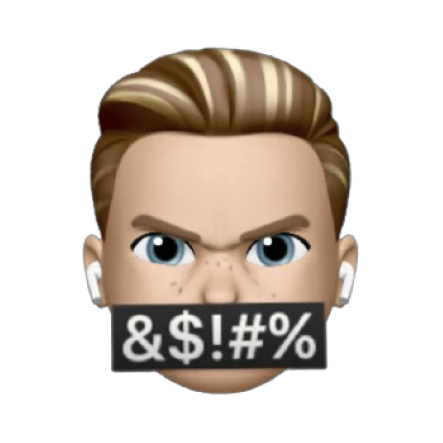
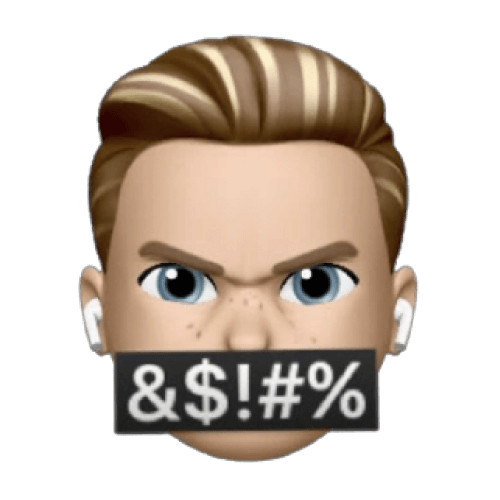
Design improvemennt

Changed region(s): [[0.1467, 0.0587, 0.851, 0.9391]]

diff --git a/components/Hero.jsx b/components/Hero.jsx
@@ -9,8 +9,9 @@ const Hero = () => {
 	const [pageAvatar, setPageAvatar] = useState(avatar)
 
 	return (
-		<section className="card flex flex-col md:flex-row items-center gap-10 md:gap-16 py-10 px-10 md:px-16 relative w-full text-center md:text-left">
-			<div className="flex-1 shake">
+		<section className="card flex flex-col lg:flex-row items-center gap-10 md:gap-16 py-10 px-10 md:px-16 relative w-full text-center md:text-left">
+			<Social />
+			<div className="flex-1 sm:w-1/2 shake">
 				<Image
 					src={pageAvatar}
 					alt="avatar"
@@ -26,15 +27,13 @@ const Hero = () => {
 			</div>
 			<div className="flex-2">
 				<div>
-					<h1 className="text-4xl md:text-5xl font-bold mb-3 font-heroTitle">
+					<h1 className="text-4xl md:text-5xl lg:text-6xl font-bold mb-5 font-title">
 						Nick Olenichev
 					</h1>
-					<h2 className="mb-3 text-2xl uppercase font-semibold text-color">
+					<h2 className="mb-3 text-2xl font-semibold text-color">
 						Web Developer
 					</h2>
 					<p className="text text-lg mx-auto text-left">{personalInfo.description}</p>
-
-					<Social />
 				</div>
 			</div>
 		</section>

diff --git a/components/Header.jsx b/components/Header.jsx
@@ -1,7 +1,17 @@
 import Head from "next/head"
 import { FaHamburger } from "react-icons/fa"
 
+const sections = ["about", "skills", "portfolio", "contacts"]
+
 const Header = ({ pageTitle }) => {
+	const links = sections.map((item, index) => {
+		return (
+			<a href={`#${item}`} className="text-hover" key={index}>
+				{item}()
+			</a>
+		)
+	})
+
 	return (
 		<>
 			<Head>
@@ -12,19 +22,8 @@ const Header = ({ pageTitle }) => {
 					<a href="#" className="select-none font-main text-xl font-semibold">
 						{"<"}Nikister {"/>"}
 					</a>
-					<nav className="gap-7 font-bold text text-xl hidden md:flex">
-						<a href="#about" className="text-hover">
-							about()
-						</a>
-						<a href="#skills" className="text-hover">
-							skills()
-						</a>
-						<a href="#portfolio" className="text-hover">
-							portfolio()
-						</a>
-						<a href="#contacts" className="text-hover">
-							contacts()
-						</a>
+					<nav className="gap-5 font-bold text text-xl hidden md:flex">
+						{links}
 					</nav>
 
 					<button className="text-3xl block md:hidden">

diff --git a/components/Social.jsx b/components/Social.jsx
@@ -11,7 +11,7 @@ const SocialLink = ({ children, link }) => {
 			href={link}
 			rel="noreferrer"
 			target="_blank"
-			className="w-10 h-10 bg-color rounded-full flex items-center justify-center hover:text-white relative text-black text-2xl"
+			className="w-9 h-9 bg-color rounded-full flex items-center justify-center hover:text-white relative text-black text-xl"
 		>
 			{children}
 		</a>
@@ -27,7 +27,7 @@ function Social({}) {
 		)
 	})
 
-	return <div className="flex gap-5 absolute top-10 right-10">{links}</div>
+	return <div className="flex gap-5 reltaive md:absolute top-5 mb-2 md:right-5">{links}</div>
 }
 
 export default Social

diff --git a/pages/_document.js b/pages/_document.js
@@ -8,17 +8,12 @@ export default function Document() {
 		<Html>
 			<Head>
 				<link
+					href="https://fonts.cdnfonts.com/css/fredoka-one"
+					rel="stylesheet"
+					crossOrigin="true"
+				/>
+				<link
 					href="https://fonts.cdnfonts.com/css/nitti"
-					rel="stylesheet"
-					crossOrigin="true"
-				/>
-				<link
-					href="https://fonts.cdnfonts.com/css/bizmo-trial"
-					rel="stylesheet"
-					crossOrigin="true"
-				/>
-				<link
-					href="https://fonts.cdnfonts.com/css/coco-gothic"
 					rel="stylesheet"
 					crossOrigin="true"
 				/>

diff --git a/components/Skills.jsx b/components/Skills.jsx
@@ -72,7 +72,7 @@ const Skills = () => {
 	return (
 		<section className="card p-5 md:p-10 w-full scroll-m" id="skills">
 			<h2 className="title">Technical Skills</h2>
-			<div className="grid gap-y-10 gap-x-14 grid-cols-1 md:grid-cols-3 bg-black rounded-3xl p-5 md:p-10">
+			<div className="grid gap-y-10 gap-x-14 grid-cols-1 sm:grid-cols-2 lg:grid-cols-3 bg-black rounded-3xl p-5 md:p-10">
 				{techicalSkills}
 			</div>
 			<div className="flex flex-col md:flex-row mt-16 gap-10">

diff --git a/components/BasicInfo.jsx b/components/BasicInfo.jsx
@@ -59,7 +59,7 @@ const BasicInfo = ({}) => {
 				<div className="flex flex-col gap-5">{basicInformation}</div>
 			</div>
 			<div className="bg-black p-5 mt-10 rounded-3xl">
-				<a href="https://t.me/nikister" rel="noreferrer" target="_blank" className="hover:opacity-70">
+				<a href="https://t.me/nikister" rel="noreferrer" target="_blank" className="hover:opacity-70 flex justify-center">
 					<Image
 						src={tgQr}
 						alt="QR"

diff --git a/styles/globals.css b/styles/globals.css
@@ -48,7 +48,7 @@ body {
 }
 
 .title {
-  @apply font-title uppercase mb-5 text-2xl font-bold;
+  @apply font-title uppercase mb-4 ml-4 text-2xl font-semibold;
 }
 
 .text {
@@ -57,10 +57,7 @@ body {
 
 
 .shake:hover {
-  /* Start the shake animation and make the animation last for 0.5 seconds */
   animation: shake 0.5s;
-
-  /* When the animation is finished, start again */
   animation-iteration-count: infinite;
 }
 

diff --git a/components/About.jsx b/components/About.jsx
@@ -13,7 +13,7 @@ const About = () => {
 	})
 
 	return (
-		<div className="flex md:gap-10 flex-col-reverse md:flex-row scroll-m" id="about">
+		<div className="flex md:gap-10 flex-col-reverse lg:flex-row scroll-m" id="about">
 			<section className="flex flex-col justify-between flex-2">
 				<div className="card p-5 md:p-10">
 					<h2 className="title">Shortly About Me</h2>

diff --git a/tailwind.config.js b/tailwind.config.js
@@ -7,7 +7,8 @@ module.exports = {
 	theme: {
 		extend: {
 			fontFamily: {
-				title: ["Coco Gothic", "sans-serif"],
+				// hero: ["fredoka one", "sans-serif"],
+				title: ["fredoka one", "sans-serif"],
 				main: ["Nitti", "sans-serif"],
 			},
 			flex: {
